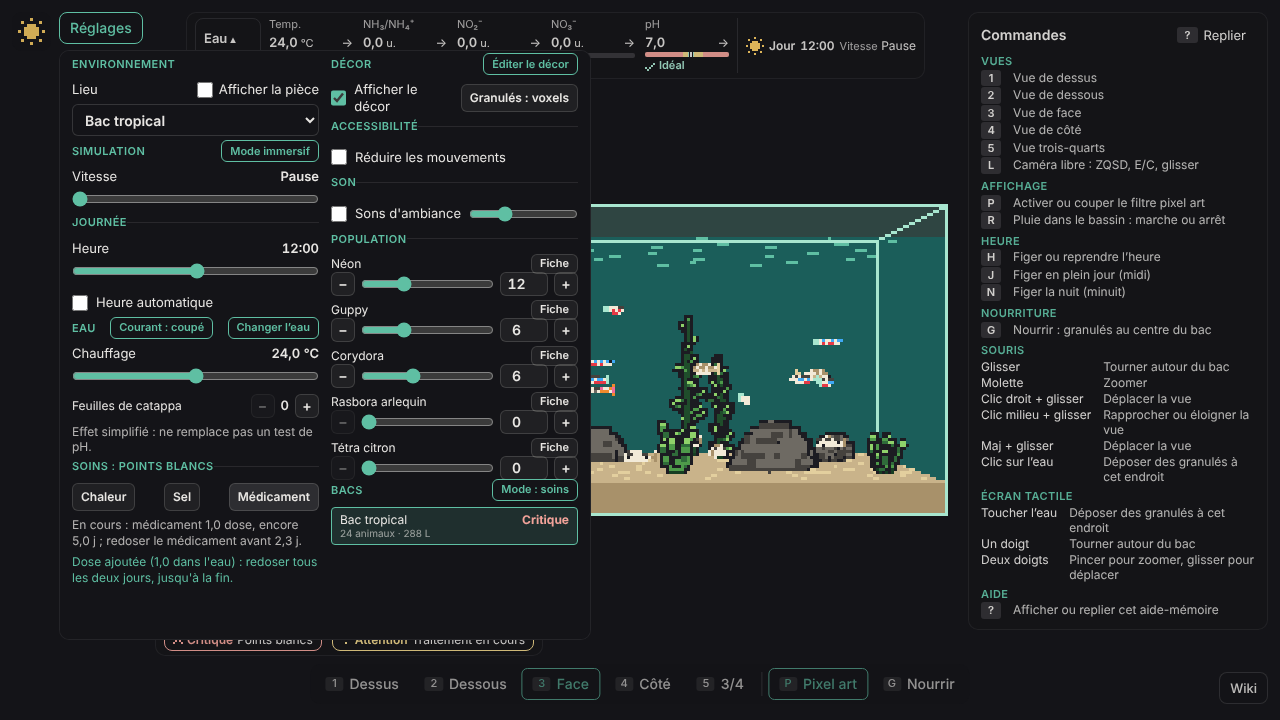
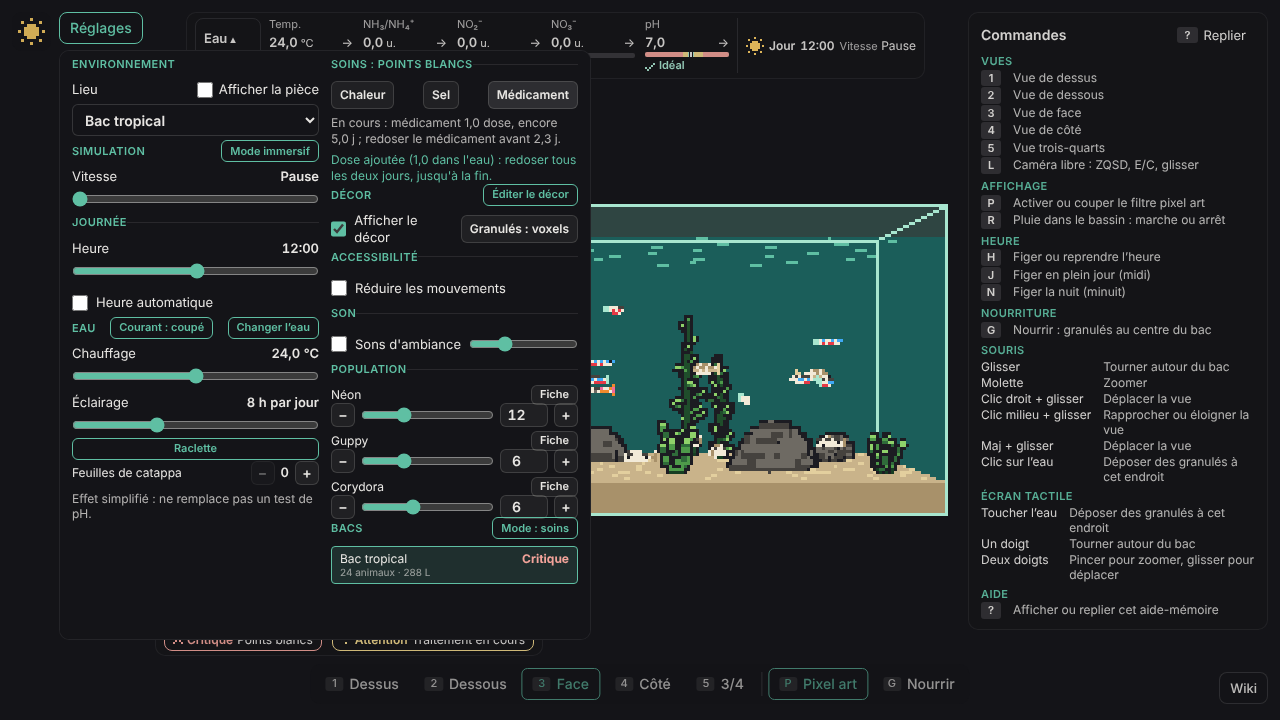
captures(c162): 5 angles

Changed region(s): [[0.0625, 0.0611, 0.4688, 0.825]]

diff --git a/captures/latest/SOURCE.md b/captures/latest/SOURCE.md
@@ -1,6 +1,6 @@
-# Captures c161
-- Branche : cycle/c161-audit-epopees-mathis (PR #486, docs seulement)
-- Commit : d05b1cc7466b8cc09687737bae4db3280f2231b5
-- Graine : par défaut des captures
-- Date : 2026-11-06
-- Note : série lancée localement (navigateur 1243 relié au 1194 attendu), interrompue par le délai après 127 images ; les 5 angles principaux sont identiques octet pour octet à la série c160.
+# Captures c162
+
+- Branche : cycle/c162-algues, PR #487, commit 82831f8
+- Graine : défaut de la suite `captures`
+- Les 5 angles de base (front, side, top, bottom, three-quarter) sont identiques à l'octet à c161 ; nouvelles : front-algues, three-quarter-algues ; écarts : panneaux (ligne « Éclairage »).
+- Série lancée en local (navigateur 1243 relié à l'emplacement 1194), arrêtée à 124 images.

diff --git a/captures/c162/SOURCE.md b/captures/c162/SOURCE.md
@@ -1,0 +1,6 @@
+# Captures c162
+
+- Branche : cycle/c162-algues, PR #487, commit 82831f8
+- Graine : défaut de la suite `captures`
+- Les 5 angles de base (front, side, top, bottom, three-quarter) sont identiques à l'octet à c161 ; nouvelles : front-algues, three-quarter-algues ; écarts : panneaux (ligne « Éclairage »).
+- Série lancée en local (navigateur 1243 relié à l'emplacement 1194), arrêtée à 124 images.
